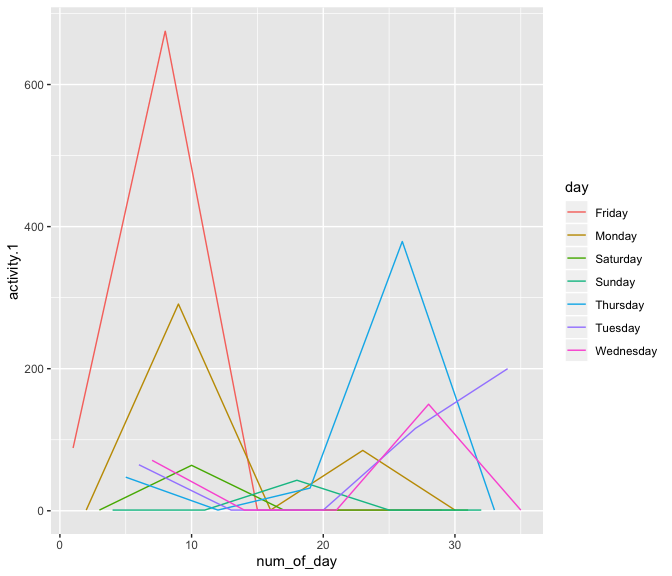
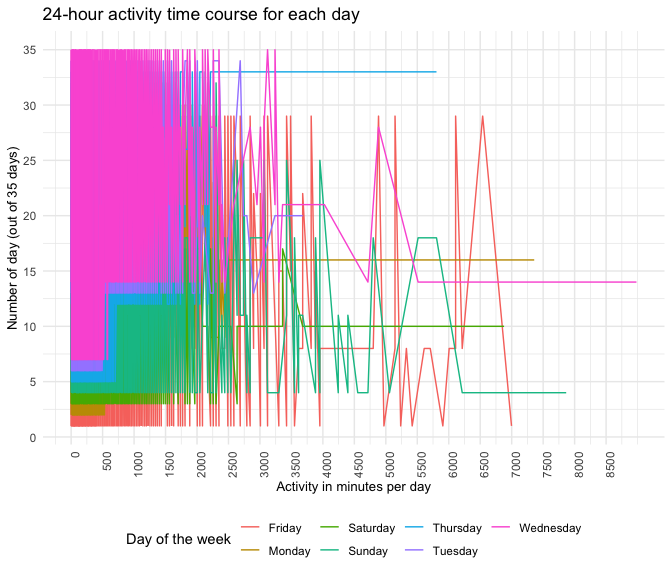
added code to create plot of activity per day in Problem 3

diff --git a/p8105_hw3_lk2761.md b/p8105_hw3_lk2761.md
@@ -35,7 +35,7 @@ num_aisles_df %>%
   filter(.data = ., num_items_ordered > 10000) %>%
   ggplot() + 
   geom_col(aes(x = aisle, y = num_items_ordered)) +
-theme_minimal() +
+  theme_minimal() +
   theme(axis.title = element_text(size = 10),
     axis.text.x = element_text(angle = 45, hjust = 1)) +
   labs(title = "Number of items ordered per aisle", 
@@ -10584,8 +10584,29 @@ accel_data %>%
     ## 35     106.00000       1.00000       1.00000       1.00000
 
 ``` r
-ggplot(accel_data, aes(x = num_of_day, y = activity.1, color = day)) + 
-  geom_line()
+accel_data_long = 
+  pivot_longer(accel_data,
+               activity.1:activity.1440, 
+               names_to = "activity_min",
+               values_to = "activity_count") %>%
+  mutate(.data = ., activity_count = round(activity_count, 2)) 
+
+ggplot(accel_data_long, aes(x = activity_count, y = num_of_day)) + 
+  geom_line(aes(color = day)) +
+  theme_minimal() +
+  scale_x_continuous(
+    breaks = c(0, 500, 1000, 1500, 2000, 2500, 3000, 3500, 4000, 4500, 5000, 5500, 6000, 6500, 7000, 7500, 8000, 8500), 
+    labels = c("0", "500", "1000", "1500", "2000", "2500", "3000", "3500", "4000", "4500", "5000", "5500", "6000", "6500", "7000", "7500", "8000", "8500")) +
+  scale_y_continuous(
+    breaks = c(0, 5, 10, 15, 20, 25, 30, 35), 
+    labels = c("0", "5", "10", "15", "20", "25", "30", "35")) +
+  theme(legend.position = "bottom") + 
+  theme(axis.title = element_text(size = 10),
+        axis.text.x = element_text(angle = 90, hjust = 1)) +
+  labs(title = "24-hour activity time course for each day", 
+       x = "Activity in minutes per day",
+       y = "Number of day (out of 35 days)") +
+  scale_color_hue(name = "Day of the week") 
 ```
 
 <img src="p8105_hw3_lk2761_files/figure-gfm/unnamed-chunk-5-1.png" width="90%" />
